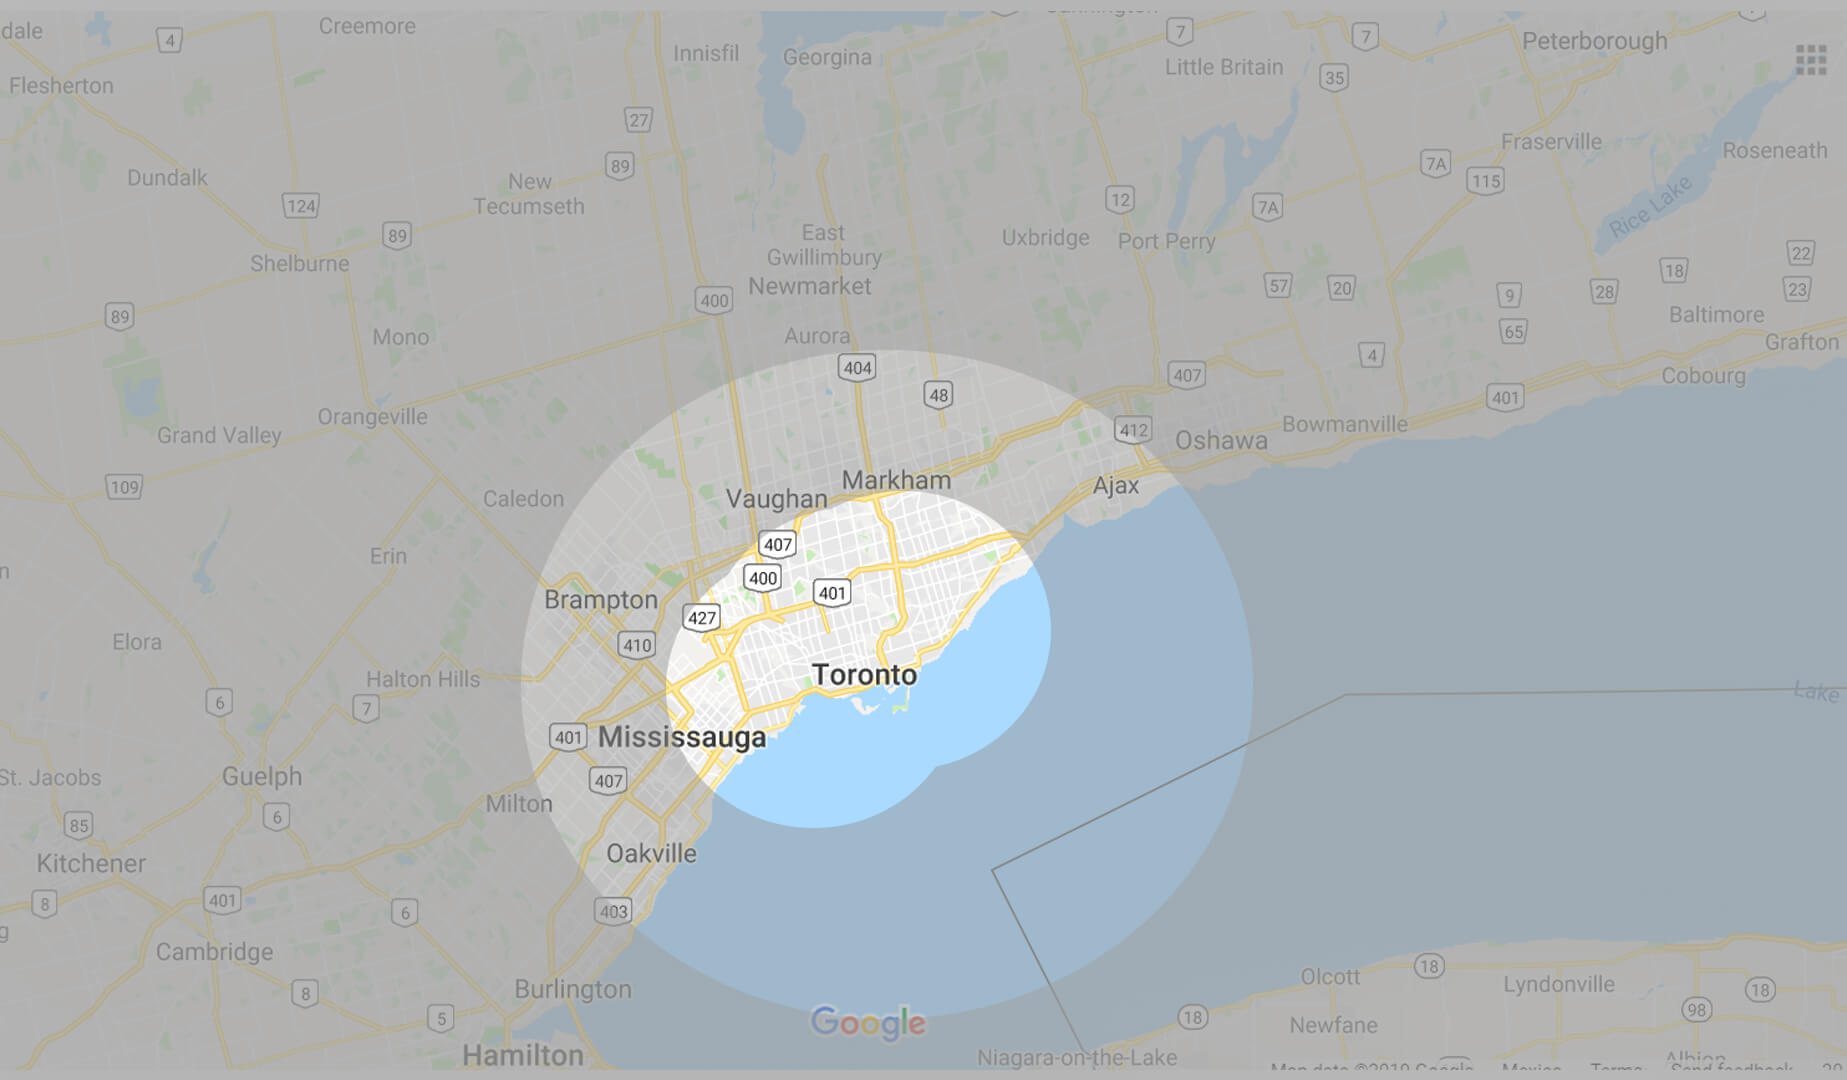
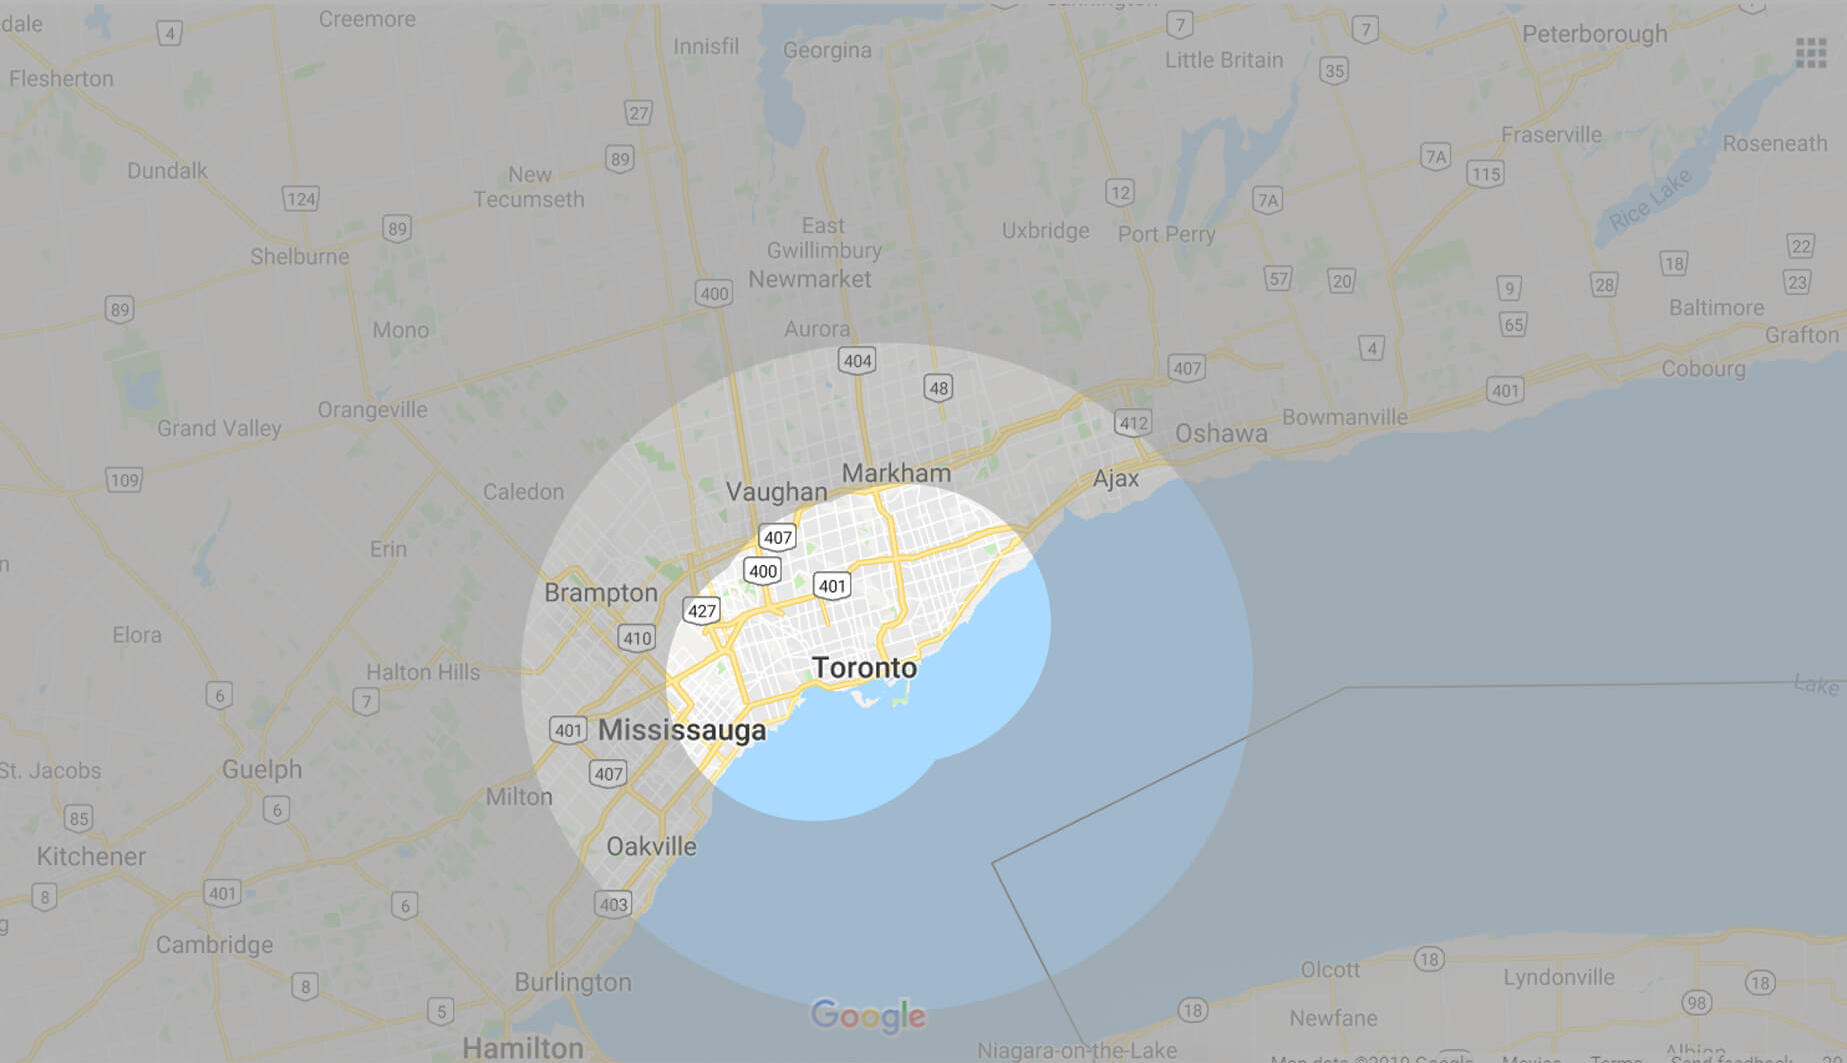
updates to delivery area map section

diff --git a/src/features/about/TabContent/DeliveryArea.tsx b/src/features/about/TabContent/DeliveryArea.tsx
@@ -12,7 +12,7 @@ export const DeliveryArea = () => {
       </ContentContainer>
 
       {/* map image container */}
-      <ContentContainer maxW='container.lg'>
+      <ContentContainer maxW='container.lg' px={{ base: '2', md: '0' }}>
         <MapContainer />
       </ContentContainer>
     </Box>
@@ -73,40 +73,55 @@ function DeliveryInfo() {
 function MapContainer() {
   return (
     <Flex
-      h='80vh'
+      h={{ md: '52vh', base: '80vh' }}
       minH='40vh'
       justifyContent='center'
       alignItems='center'
       flexFlow='column'
     >
+      {/* map bg image */}
       <Box
-        flex='6'
+        flex='10'
         bgImage={map.src}
-        bgPosition={{ base: 'center', md: 'center' }}
+        bgPosition={{ base: 'center', md: 'center bottom 5%' }}
         bgRepeat='no-repeat'
         bgSize='cover'
         w='full'
       />
-      <Legend my='10' />
+      <Legend />
     </Flex>
   );
 }
 
 function Legend({ ...props }: StackProps) {
   return (
-    <Stack w='full' textAlign='left' flex='1' justify='center' {...props}>
+    <Stack
+      w='full'
+      textAlign='left'
+      flex='1'
+      justify='center'
+      my='10'
+      px='5'
+      {...props}
+    >
       <Heading
         as='h2'
         fontWeight='light'
         letterSpacing='wide'
-        fontStyle='italic'
         fontSize='xl'
-        mb='2'
+        mb='8'
+        textAlign={{ md: 'left', base: 'left' }}
       >
         Delivery Legend
       </Heading>
 
-      <Flex justifyContent='space-around' alignItems='start' w='full'>
+      <Flex
+        w='full'
+        flexFlow={{ md: 'row', base: 'column' }}
+        justifyContent='space-around'
+        alignItems='start'
+        fontSize={{ md: 'sm', base: '' }}
+      >
         {legendData.map((item) => (
           <LegendItem
             key={item.title}
@@ -123,22 +138,29 @@ function LegendItem({ color, content }: LegendItemProps) {
   const heading = content.split(':')[0];
   const body = content.split(':')[1];
   return (
-    <Flex flex='1' justify='left' align='start' gap='6'>
+    <Flex
+      justify='left'
+      align='start'
+      gap={{ md: '6', base: '8' }}
+      mb={{ md: '0', base: '3' }}
+      w='full'
+    >
+      {/* Legend color marker */}
       <Box
-        w='45px'
-        maxW='45px'
-        h='45px'
-        border='2px solid black'
-        borderRadius='md'
+        w={{ md: '50px', base: '35px' }}
+        maxW={{ md: '50px', base: '35px' }}
+        h={{ md: '50px', base: '35px' }}
+        borderRadius='full'
         bg={color}
         flex='1'
-        mt='5px'
+        mt='2px'
+        boxShadow='7px 7px 20px 0 rgba(0,0,0, 0.4)'
       />
       <Stack flex='2'>
-        <Text fontWeight='bold' letterSpacing='wider'>
+        <Text fontWeight='' letterSpacing='wider' fontSize={{ md: 'lg' }}>
           {heading}
         </Text>{' '}
-        <Text> {body}</Text>
+        <Text maxW='sm'> {body}</Text>
       </Stack>
     </Flex>
   );
